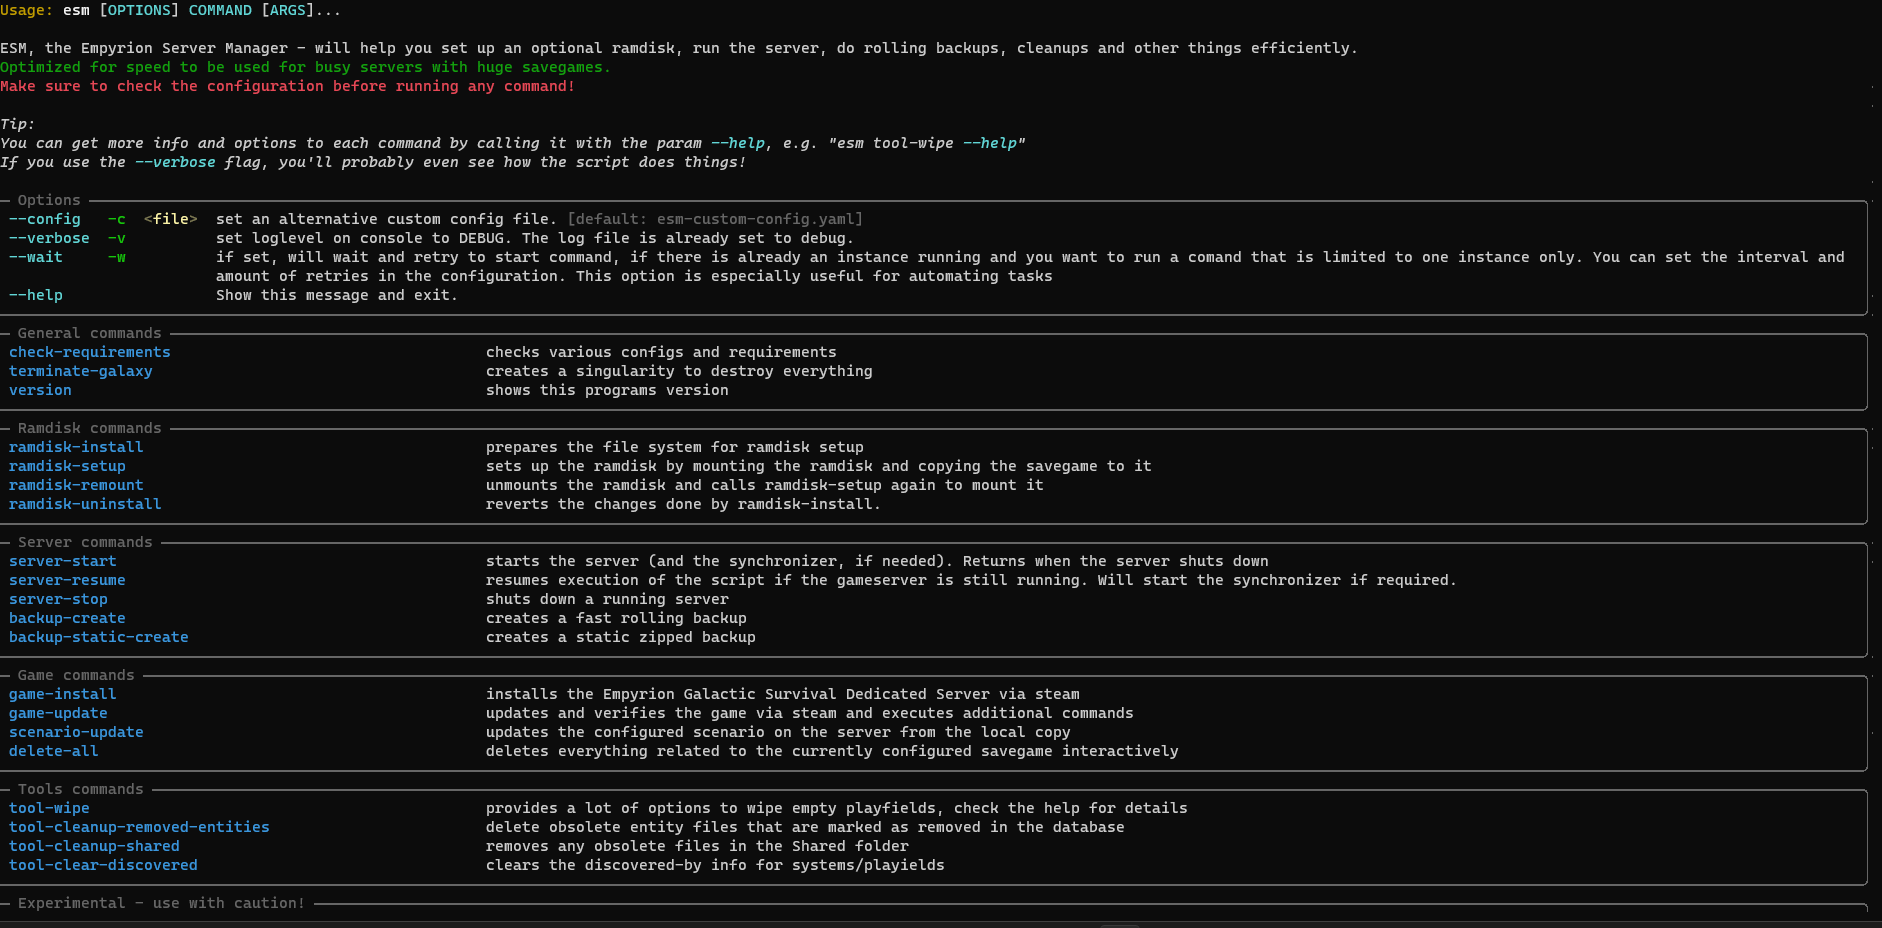
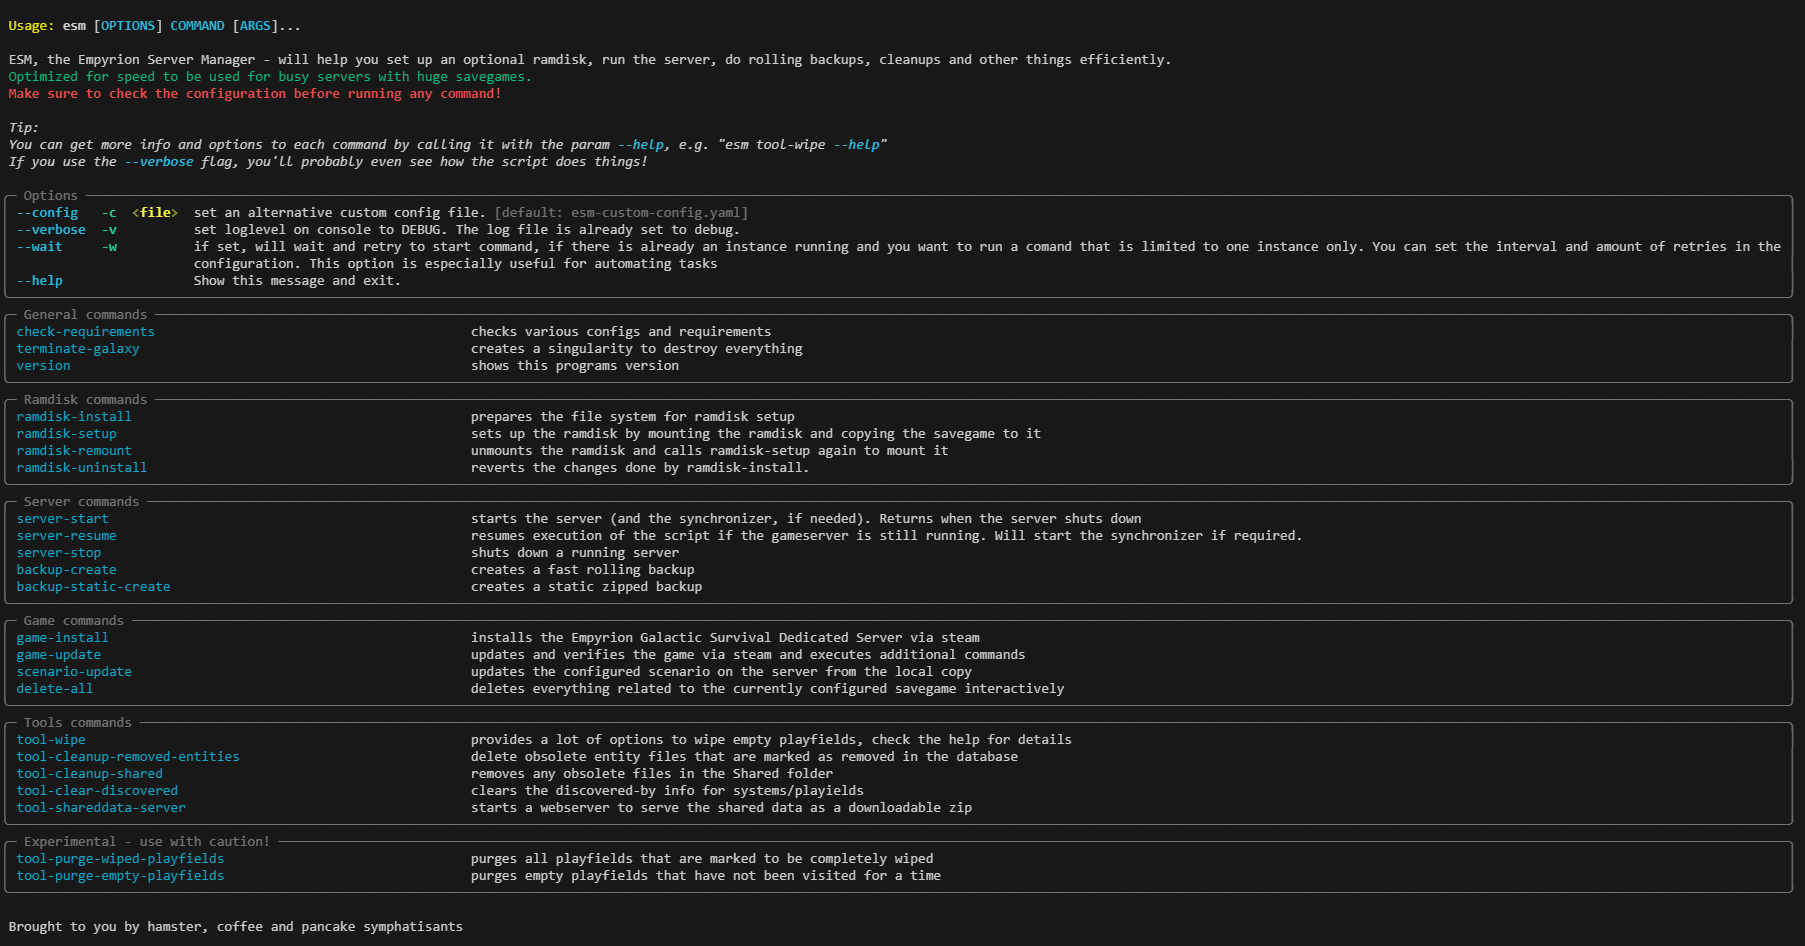
updated docs and preview image

Changed region(s): [[0.0, 0.0, 1.0, 1.0], [0.9928, 0.3438, 1.0, 0.4062], [0.9928, 0.9062, 1.0, 0.9375]]

diff --git a/readme.md b/readme.md
@@ -8,12 +8,23 @@ Its meant to run fully automated, so you only need to configure it once, then se
 
 ## Features
 
+### Ramdisk
 - automatically sets up and runs a game on a ramdisk, which eliminates most server performance problems
-- provides its own (eah compatible) rolling mirror backup system, that backs up a 50GB savegame in under a minute without even affecting game server performance
-- ability to create static (zipped) backups
 - ability to "prepare" the filesystem for ramdisk usage, aswell as to revert that again if you have a running server already
 - automatically externalizes the savegame templates back to HDD to reduce the needed ramdisk space by ~40%
+
+### Backups
+- provides its own (eah compatible) rolling mirror backup system, that backs up a 50GB savegame in under a minute without even affecting game server performance
+- ability to create static (zipped) backups
+
+### Convenience
 - delete all function to remove any traces of an existing savegame, when you want to start a new season
+- almost all features, limits, timeouts and paths are configurable
+- everything is logged in console and logfiles, so you can always see what the scripts do, did and what happened when.
+- freely configurable in-game announcer for a few actions
+- special downloadserver as tool, that creates and serves the shared data folder as downloadable zip, see performance section
+
+### Game maintenance / performance
 - wipe tool for wiping playfields with no player or player-owned terrain placeables or structures.
 - tool to clear the "discovered-by" infos from playfields and/or systems
 - purge-tools to delete old playfield files, delete the related structures and templates - this will keep your savegame small if used regularly.
@@ -24,10 +35,6 @@ Its meant to run fully automated, so you only need to configure it once, then se
 - fully integrated to be used with EAH
 - supports a direct starting mode (without launcher), when you're running several instances of the game on one machine.
 - various tools to manage the galaxy
-- almost all features, limits, timeouts and paths are configurable
-- everything is logged in console and logfiles, so you can always see what the scripts do, did and what happened when.
-- freely configurable in-game announcer for a few actions
-- special downloadserver as tool, that creates and serves the shared data folder as downloadable zip, see performance section
 
 ### Screenshot
 
@@ -52,7 +59,7 @@ provided:
 
 You'll want to [read this](readme_backups.md).
 
-## install ESM, the game, everything
+## How to install ESM, the game, everything
 
 Please follow this [path](readme_install.md).
 
@@ -136,6 +143,7 @@ The ramdisk setup keeps a mirror of the savegame on the HDD, it also keeps the t
 ## KNOWN ISSUES
 - open windows consoles may pause scripts with the quick edit function. This is terrifying and there's no workaround for the scripts - **turn it off** (see tips) - although turning it off doesn't seem to work reliably either! If you see the "Running Server"-spinner moving, its fine. If it stops, your console froze and the program **is suspended**. Click into it or press Enter until the program continues execution.
 - the ramdisk-setup command will not run properly if in the "Autostart" folder of your windows user, due to how windows handles that "need admin privileges" popup on startup.
+- the delete-all sometimes will fail to unmount the ramdrive. In that case start osfmount yourself and unmount it yourself.
 
 ## FAQ:
 Q: Trying to start the server in EAH, there are a few consoles popping up and say something like "script is already running, will wait 10 seconds to retry.".\

diff --git a/readme_backups.md b/readme_backups.md
@@ -21,4 +21,10 @@ When using the ramdisk, the game is not dependent on the server's disk io any mo
 
 If the ramdisk is disabled, the backup will use the actual savegame as source and require the server to be shut down. It will still be a lot faster than EAH's system though.
 
+## Other backups
+
+You can always create a static backup using `esm backup-static-create`, which will create a static and zipped backup out of the latest rolling backup with proper naming and leave it in the backup directory. This will **not** get deleted by ESM at any time.
+
+When wiping everything with `esm delete-all`, you will be asked if you want to create a static backup and back up all the logs before the actual deletion, so that tool should provide anything you would need when wiping your server.
+
 #### copyright by Vollinger 2023-2024
